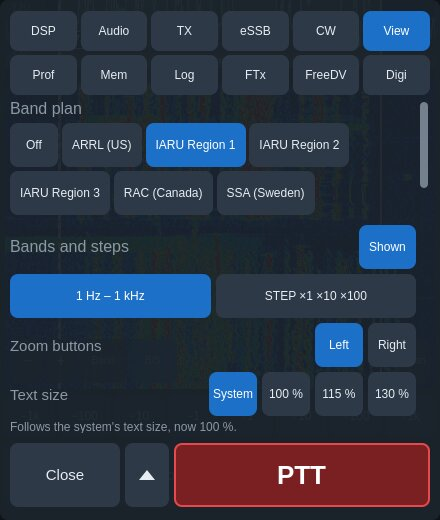
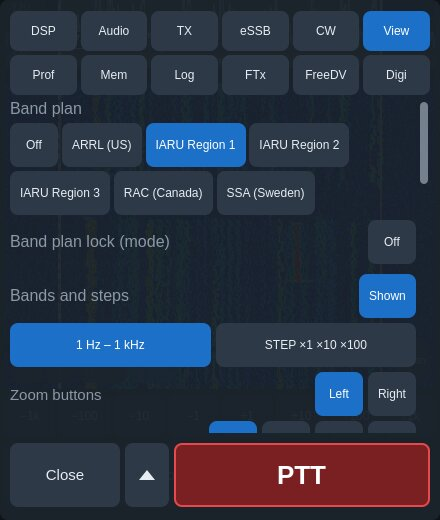
mobile: tuning with VoiceOver / TalkBack; build 156 / beta 69 notes, roadmap, pictures
The user, of the screen reader plan: "Tähän buildiin 1 ja 4": the
frequency becomes an adjustable control for VoiceOver / TalkBack (role
Slider, value the frequency in kHz, increase / decrease one step of the
STEP setting; a double tap still opens frequency entry), on the tablet
page and both phone headers; and the mode and transmit on / off are
announced (Accessible.announce, quiet for 3 s after connecting).

Qt's iOS bridge marks an element adjustable only with a value interface
(the Slider role) and sends a swipe as the increase / decrease action,
which the QML handler takes before Qt's own value stepping; VoiceOver
reads the value after it. Tested on the FLEX with --a11y-tune-test (new)
at 390x844 and 1180x820: role Slider, value 14074, increase twice and
decrease once each one 1 kHz step (14.074 -> 14.075 -> 14.076 -> 14.075),
mode changed and back with no QML warnings, the frequency put back. The
real gestures are to verify on a device.

Docs: the manual's screen reader paragraph; TestFlight notes (3980
characters) and Android beta 69 notes with the band plan lock, the CW
sidetone level and screen reader tuning; release.env android-beta-69;
the roadmap's build 156 entry; tab-cw and tab-view re-rendered on the
FLEX. Render sweep, 27 sizes: 0 QML warnings, 0 radio full; layout
against build 154's sweep differs only by build 155's big-screen type,
the mode's width unchanged with the lock off.

Notes: changed
Manual: changed
Roadmap: changed
Screenshots: changed
[…]

diff --git a/mobile/qml/PhoneOperatePage.qml b/mobile/qml/PhoneOperatePage.qml
@@ -148,9 +148,16 @@ Page {
                     color: Theme.text
                     font.pixelSize: 30
                     font.family: "monospace"
-                    Accessible.role: Accessible.Button
-                    Accessible.name: qsTr("Frequency %1 kHz").arg((Engine.frequencyMhz * 1000).toFixed(3))
-                    Accessible.description: qsTr("Opens frequency entry")
+                    // For VoiceOver / TalkBack an adjustable control: a swipe up or
+                    // down tunes one step and the new frequency (value, kHz) is read;
+                    // a double tap opens frequency entry.
+                    readonly property real value: Math.round(Engine.frequencyMhz * 1e6) / 1000
+                    Accessible.role: Accessible.Slider
+                    Accessible.name: qsTr("Frequency, kHz")
+                    Accessible.description: qsTr("Swipe up or down to tune by %1; double tap to type a frequency")
+                        .arg(Engine.stepHz >= 1000 ? qsTr("%1 kHz").arg(Engine.stepHz / 1000) : qsTr("%1 Hz").arg(Engine.stepHz))
+                    Accessible.onIncreaseAction: Engine.tuneBySteps(1)
+                    Accessible.onDecreaseAction: Engine.tuneBySteps(-1)
                     Accessible.onPressAction: freqDialog.open()
                     TapHandler { onTapped: freqDialog.open() }
                 }
@@ -240,9 +247,16 @@ Page {
                         color: Theme.text
                         font.pixelSize: 30
                         font.family: "monospace"
-                        Accessible.role: Accessible.Button
-                        Accessible.name: qsTr("Frequency %1 kHz").arg((Engine.frequencyMhz * 1000).toFixed(3))
-                        Accessible.description: qsTr("Opens frequency entry")
+                        // For VoiceOver / TalkBack an adjustable control: a swipe up or
+                        // down tunes one step and the new frequency (value, kHz) is read;
+                        // a double tap opens frequency entry.
+                        readonly property real value: Math.round(Engine.frequencyMhz * 1e6) / 1000
+                        Accessible.role: Accessible.Slider
+                        Accessible.name: qsTr("Frequency, kHz")
+                        Accessible.description: qsTr("Swipe up or down to tune by %1; double tap to type a frequency")
+                            .arg(Engine.stepHz >= 1000 ? qsTr("%1 kHz").arg(Engine.stepHz / 1000) : qsTr("%1 Hz").arg(Engine.stepHz))
+                        Accessible.onIncreaseAction: Engine.tuneBySteps(1)
+                        Accessible.onDecreaseAction: Engine.tuneBySteps(-1)
                         Accessible.onPressAction: freqDialog.open()
                         TapHandler { onTapped: freqDialog.open() }
                     }

diff --git a/mobile/qml/Main.qml b/mobile/qml/Main.qml
@@ -38,6 +38,37 @@ ApplicationWindow {
         target: Theme; property: "windowHeight"
         value: pages.height - pages.SafeArea.margins.top - pages.SafeArea.margins.bottom
     }
+
+    // VoiceOver / TalkBack: what changed is said without being asked: the
+    // mode (the band plan lock's too) and transmit on / off. Quiet for the
+    // first seconds of a connection, while the radio's state arrives.
+    Item {
+        id: announcer
+        property bool ready: false
+        function say(text) {
+            if (ready) {
+                Accessible.announce(text)
+            }
+        }
+        Timer { id: announceSettle; interval: 3000; onTriggered: announcer.ready = true }
+        Connections {
+            target: Engine
+            function onConnectionStateChanged() {
+                announcer.ready = false
+                if (Engine.connectionState === "connected") {
+                    announceSettle.restart()
+                }
+            }
+            function onModeChanged() {
+                if (Engine.mode.length > 0) {
+                    announcer.say(qsTr("Mode %1").arg(Engine.mode))
+                }
+            }
+            function onTransmittingChanged() {
+                announcer.say(Engine.transmitting ? qsTr("Transmitting") : qsTr("Receiving"))
+            }
+        }
+    }
     readonly property bool phoneSized: Theme.phoneLayout
     // The page's layout, settled: the two bindings above update one after
     // the other, so a phone turning passed through a square window that

diff --git a/mobile/qml/OperatePage.qml b/mobile/qml/OperatePage.qml
@@ -289,9 +289,16 @@ Page {
                     font.pixelSize: Math.round((page.compact ? 40 : 56) * page.infoScale)
                     font.family: "monospace"
                     // Tap for direct entry.
-                    Accessible.role: Accessible.Button
-                    Accessible.name: qsTr("Frequency %1 kHz").arg((Engine.frequencyMhz * 1000).toFixed(3))
-                    Accessible.description: qsTr("Opens frequency entry")
+                    // For VoiceOver / TalkBack an adjustable control: a swipe up or
+                    // down tunes one step and the new frequency (value, kHz) is read;
+                    // a double tap opens frequency entry.
+                    readonly property real value: Math.round(Engine.frequencyMhz * 1e6) / 1000
+                    Accessible.role: Accessible.Slider
+                    Accessible.name: qsTr("Frequency, kHz")
+                    Accessible.description: qsTr("Swipe up or down to tune by %1; double tap to type a frequency")
+                        .arg(Engine.stepHz >= 1000 ? qsTr("%1 kHz").arg(Engine.stepHz / 1000) : qsTr("%1 Hz").arg(Engine.stepHz))
+                    Accessible.onIncreaseAction: Engine.tuneBySteps(1)
+                    Accessible.onDecreaseAction: Engine.tuneBySteps(-1)
                     Accessible.onPressAction: freqDialog.open()
                     TapHandler { onTapped: freqDialog.open() }
                 }

diff --git a/mobile/src/main.cpp b/mobile/src/main.cpp
@@ -35,6 +35,7 @@
 #include <QKeyEvent>
 #include <QQuickWindow>
 #include <QQuickItem>
+#include <QAccessible>
 #include <QTimer>
 #include <QRawFont>
 #include <QGlyphRun>
@@ -409,6 +410,11 @@ int main(int argc, char* argv[])
         QStringLiteral("Development: change each radio setting a little, check the radio's status brings it "
                        "back, restore it, then quit (no keying; VOX, antennas, MTU, callsign left out)."));
     parser.addOption(echoAuditOption);
+    const QCommandLineOption a11yTuneOption(QStringLiteral("a11y-tune-test"),
+        QStringLiteral("Development: as VoiceOver / TalkBack would, swipe the frequency up twice and down once "
+                       "(its accessible increase / decrease), log its role, value and the frequency, change "
+                       "the mode and back (spoken notices), then put the frequency back and quit."));
+    parser.addOption(a11yTuneOption);
     const QCommandLineOption engineSetOption(QStringLiteral("engine-set"),
         QStringLiteral("Development: 12 s after start set engine properties <name>=<value>[,...] "
                        "(e.g. to put back what a test left), log them, then quit 3 s later."),
@@ -764,6 +770,69 @@ int main(int argc, char* argv[])
             QTimer::singleShot(11000, &engine, [&engine, slot] {
                 qInfo() << "dvk-record-test: slot after clear" << engine.dvkSlots().at(slot - 1);
             });
+        });
+    }
+    if (parser.isSet(a11yTuneOption)) {
+        auto findFrequency = [&qml]() -> QAccessibleInterface* {
+            if (qml.rootObjects().isEmpty()) {
+                return nullptr;
+            }
+            auto* window = qobject_cast<QQuickWindow*>(qml.rootObjects().constFirst());
+            QList<QQuickItem*> todo{window ? window->contentItem() : nullptr};
+            while (!todo.isEmpty()) {
+                QQuickItem* it = todo.takeFirst();
+                if (!it) {
+                    continue;
+                }
+                if (it->isVisible() && it->property("value").isValid()) {
+                    QAccessibleInterface* iface = QAccessible::queryAccessibleInterface(it);
+                    if (iface && iface->text(QAccessible::Name) == QLatin1String("Frequency, kHz")) {
+                        return iface;
+                    }
+                }
+                todo.append(it->childItems());
+            }
+            return nullptr;
+        };
+        auto saved = std::make_shared<std::pair<double, QString>>();
+        QTimer::singleShot(10000, &app, [&engine, saved, findFrequency] {
+            saved->first = engine.frequencyMhz();
+            saved->second = engine.mode();
+            QAccessibleInterface* iface = findFrequency();
+            if (!iface) {
+                qWarning() << "a11y-tune-test: no frequency control found";
+                return;
+            }
+            qInfo() << "a11y-tune-test: role" << iface->role() << "slider" << (iface->role() == QAccessible::Slider)
+                    << "value" << (iface->valueInterface() ? iface->valueInterface()->currentValue() : QVariant())
+                    << "actions" << (iface->actionInterface() ? iface->actionInterface()->actionNames() : QStringList())
+                    << "description" << iface->text(QAccessible::Description) << "step" << engine.stepHz();
+        });
+        const QStringList actions{QAccessibleActionInterface::increaseAction(),
+                                  QAccessibleActionInterface::increaseAction(),
+                                  QAccessibleActionInterface::decreaseAction()};
+        for (int i = 0; i < actions.size(); ++i) {
+            const QString action = actions.at(i);
+            QTimer::singleShot(11000 + i * 1500, &app, [&engine, action, findFrequency] {
+                if (QAccessibleInterface* iface = findFrequency(); iface && iface->actionInterface()) {
+                    const double before = engine.frequencyMhz();
+                    iface->actionInterface()->doAction(action);
+                    QTimer::singleShot(800, &engine, [&engine, action, before, findFrequency] {
+                        QAccessibleInterface* now = findFrequency();
+                        qInfo() << "a11y-tune-test:" << action << before << "->" << engine.frequencyMhz() << "value"
+                                << (now && now->valueInterface() ? now->valueInterface()->currentValue() : QVariant());
+                    });
+                }
+            });
+        }
+        QTimer::singleShot(16000, &app, [&engine] { engine.setMode(QStringLiteral("USB")); });
+        QTimer::singleShot(18000, &app, [&engine, saved] {
+            engine.setMode(saved->second);
+            engine.setFrequencyMhz(saved->first);
+        });
+        QTimer::singleShot(20000, &app, [&engine] {
+            qInfo() << "a11y-tune-test: restored" << engine.frequencyMhz() << engine.mode();
+            QCoreApplication::quit();
         });
     }
     if (parser.isSet(engineSetOption)) {

diff --git a/mobile/ROADMAP.md b/mobile/ROADMAP.md
@@ -5,6 +5,8 @@ queued, waiting on someone, or still to verify follows.
 
 ## Next build
 
+Build 156 / beta 69 (the user, 2026-11-05: Tyler Akerman K0OTC's two e-mails, "Laitetaan tylerin toiveet seuraavaan buildiin", then for the screen reader "Tähän buildiin 1 ja 4, PuJu"): **Band plan lock** (Tyler asked for the mode to follow the band plan with a switch; the user: the plan's modes as defaults that a chosen mode overrides, then, after Tyler answered that a switch the user turns off for contests is easiest, "a simple switch that always chooses", clear, easy to find and recognise, the modes limited by the plan and a notice when another is tried): in the mode chooser and View; PLAN by the mode (under it on a phone, the row's width kept; a tap turns it off). Tuning into another part of the plan below 30 MHz sets CW (CW part) or LSB under 10 MHz / USB above and on 60 m (phone or all-mode part), from any mode; a CW part allows CW, a phone part the voice modes (DIGU / DIGL with RADE on), an all-mode part any mode (FT8 on 7.074 in Region 1 stays DIGU), data / beacon / mixed parts any mode and set none; a refused choice or a spot's or memory's mode the part does not use gives a notice and the part's mode. Two earlier designs were built and tested on the FLEX first and dropped by the user: a hand-chosen mode remembered per part (a weekend's CW contest would leave the whole band CW), and a hold on the band. **CW sidetone level** (Tyler: the CW tones too loud with the volume up): Sidetone On and level on the CW tab (the radio's sidetone and mon_gain_cw, which the local sidetone plays at). **Screen reader tuning** (usability plan, Build C): the frequency is an adjustable control for VoiceOver / TalkBack (a swipe up or down tunes one step, the new frequency read; a double tap opens entry), and the mode and transmit on / off are announced. Tested on the FLEX: --mode-plan-test 26 steps on ARRL (US) and IARU Region 1; --echo-audit-only cwSidetone; --a11y-tune-test (new: the frequency's accessible role Slider, value in kHz, increase twice and decrease once each one step on 390x844 and 1180x820); rendered with the lock on at 390x844, 844x390, 320x693, 1180x820; state put back each time (the CW monitor level a test left at 85 put back to 80 with the new --engine-set). To verify: VoiceOver on an iPad / iPhone and TalkBack on a phone with the real gestures (only the accessible actions were driven here); the lock on a tester's ARRL plan.
+
 Build 155 / beta 68 (the user, 2026-11-05: the overnight watch's findings, then "Suunnattu FT8-CQ, B/S, Android: suurin näytön koko, tabletin ja Macin tekstikoko", and after the morning's phone tests the DX cluster backoff and the iOS device ID; "Kun olet saanut kaikki valmiiksi tee PuJu"): **iOS Display Zoom** (Evgeny R0ACS, iPhone 15 Pro, Larger Text: the app ran past the right edge): an iPhone 12-17 is 320 pt wide in Display Zoom, under the phone layout's least width (about 372); below 375 pt the app is laid out at 375 and drawn scaled (QT_SCALE_FACTOR before the app starts), rendered at 320x693 against the FLEX; Android needs none (the OnePlus Open's outer screen at its largest Display size fits, devlink pictures of both screens both ways). **Radio Setup at a large text size** (Ben Morris, Evgeny): an unwrapped label set a tab's least width, past the scroll bar; Level, TextSetting and Info labels wrap, every tab fits at 375 and 393 pt at 135 %; the description scrolls with the settings; the amplifier's description back on the Amp tab (index 7, it showed on XVTR). **B/S** (Michael Walker): hidden rows give it an amber frame and ▲. **A directed CQ** (Kurt DL5EAG): FTx settings › CQ to, All / DX / NA / EU / own (1-4 letters or 3 digits), the CQ button reads CQ DX; --ft8-test selftest: CQ DX / NA / POTA / 123 through our encoder and decoder in FT8 and FT4; a dry run against the radio (the user's nonstandard call sends it plain, as WSJT-X). **Bigger type on big screens** (the usability review): the scale grows faster above the 11" iPad (13" 1.14, external up to 1.3) and the panels' text follows (Theme.bigScale); the pinned panel widens where the window has room; sweep against the same code before: phones, foldables, 11" iPad unchanged, no layout decision changed. **All station slots taken** (the user's iPad with both slots held by the user's two phones: "multiFLEX is off", no question): the refusal says so and asks which station to disconnect, then connects again (tested to the question against the radio). **Two devices of one owner** (the user's two Android phones threw each other off every 10-30 s, evicting each other as a stale session of the same GUI client ID): the ID's machine binding was "localhost|linux|arm64" on every phone, so a phone set up from another's backup kept the ID; Android binds to ANDROID_ID, iOS to identifierForVendor (AppSettings::setDeviceBinding); the first start rotates the ID once. **DX cluster**: the backoff starts over only after a 2-minute session, and two logins closed at once say the call is probably logged in elsewhere (an SSID, e.g. OH6OKSA-2); tested against a stand-in that closes each login. **An idle PGXL 0 W** (Ben's log: 30 dBm at rest). Open: the Connect page's polish loop on the OnePlus's outer screen right after its Display size went to the largest (the UI stood still ~40 s, the connection with it); not reproduced since on the phone or the desktop. To verify: Display Zoom on an iPhone; the iOS device ID and the Android one on the user's two phones together; the big-screen type on a Mac (the iPad app drawn at 77 %).
 
 Build 154 / beta 67 (the user, 2026-11-04: "Tehdään 1-4", then "Teen nyt vaan kaikki tähän bildiin"): **1. The Antenna Genius and an SO2R TGXL's channel** (Ben Morris's SO2R TGXL on an AG SO2R; his build 153 log, a FLEX-8600 over SmartLink on a mobile network, held nothing of the devices, so first **the devices' own words into the log**: the radio's amplifier status per device once per change, each direct link's info and first status, the PGXL setup group with the code hidden, the AMP meters the radio lists, the first readings and each transmission's highest; then, after 4O3A's AG TCP/IP API and the TGXL description, on the engine's AntennaGeniusModel: Radio Setup › Amp's AG address / Control / remote code, the Amp tab's ports with band, RX / TX antenna and the antennas allowed on the band (port set rxant= / txant= where allowed, asked first, not while transmitting), the engine's band recall made switchable and off (the desktop asserts the last antenna on every band change and at connect), an SO2R TGXL's Channel A / B (activate ch=); genius-mock --ag and --tgxl-so2r; tested against the mock registered with the FLEX: a TX antenna, an RX-only one keeping TX, back, the channel; the mock sends port get's terminator as the engine's model reads it). **2. The 4O3A audit's open points** (PGXL writes from a fresh setup read and no single-key fan write, sequence 1-255, a stale amp handle refreshed; the mock PGXL's meters reach the radio's definitions but not their values: Ben's log will show the real ones). **3. The connection doctor** (Connect page › Check the connection: network, name, where the radio is, TCP 4992 answered / refused / silent with the Local Network hint, the radio's firmware, stations and multiFLEX; SmartLink sign-in, listing and slots; tested against the FLEX, a dead address, a host without the port, a bad name and SmartLink). **4. The text size from the system** (iOS content size category, Android fontScale, View › Text size; Theme.px() on the panels', dialogs' and setup pages' 339 sizes, the operating screen and buttons kept: at 115 % a phone's step and PTT rows no longer fit; the sweep at 100 % identical to build 153's, at 130 % the operating screen unchanged). To verify: Ben's AG and SO2R channel, the text size on an iPhone and an Android phone at their largest settings.
@@ -227,8 +229,9 @@ Finding things:
 Screen reader:
 - **VoiceOver and TalkBack:** names for every control *in build 139*
   (290 on the FLEX, none without; 18 before), a double tap acting, a
-  swipe stepping a slider. Still to come: tuning that works with the
-  screen reader (the frequency read out, a swipe up or down = one step).
+  swipe stepping a slider. Tuning with the screen reader (the
+  frequency an adjustable control, a swipe up or down = one step, read
+  out) *in build 156*.
   *To discuss:* with a tester who uses a screen reader.
 
 Small ones: done in build 138 ("In use by" on SmartLink cards, 4.5:1

diff --git a/mobile/android/RELEASE_NOTES.md b/mobile/android/RELEASE_NOTES.md
@@ -1,6 +1,11 @@
-**OksaSDR for Android — beta 68.** A FlexRadio client for Android phones and tablets, built on the [AetherSDR](https://github.com/aethersdr/AetherSDR) engine: the same app as on the iPhone and iPad (TestFlight), from the same code.
+**OksaSDR for Android — beta 69.** A FlexRadio client for Android phones and tablets, built on the [AetherSDR](https://github.com/aethersdr/AetherSDR) engine: the same app as on the iPhone and iPad (TestFlight), from the same code.
 
-### New in beta 68
+### New in beta 69
+- **Band plan lock** (thanks Tyler K0OTC, who asked for the mode to follow the band plan, and agreed a switch is best for contests): tap the mode by the frequency and turn **Band plan lock** on (also in **Controls › View**). Tuning into another part of the band plan below 30 MHz then sets its mode: **CW** in a CW part, **LSB** below 10 MHz and **USB** above (and on 60 m) in a phone or all-mode part, e.g. 14.250 USB, then 7.210 LSB; a digital mode tuned into a CW or phone part takes the part's mode. A CW part allows only CW, a phone part the voice modes (DIGU / DIGL with RADE on); other modes are dimmed in the mode chooser and refused with a notice, and a spot's or memory's mode the part does not use is replaced. An all-mode part (IARU's ALL) sets the sideband but allows any mode, so FT8 on 7.074 stays DIGU. **PLAN** by the mode (under it on a phone) shows the lock is on; a tap on PLAN turns it off, e.g. for a contest that uses the whole band. It uses the band plan chosen in Controls › View (pick *ARRL (US)*, *IARU Region 1* … there).
+- **CW sidetone level** (thanks Tyler K0OTC: the CW tones were very loud with the volume up for weak stations): the CW tab has **Sidetone**, *On* and its own level, under Pitch; the radio's sidetone and the one on this device follow it, apart from the receive volume.
+- **TalkBack tuning**: the frequency is an adjustable control: the volume keys (or TalkBack's adjust gesture) on it tune one step (the STEP setting) and the new frequency is read; a double tap opens frequency entry. The mode changing and transmit starting and ending are spoken.
+
+### Still new from beta 68
 - **Two phones of yours no longer throw each other off the radio** (the developer's own two Android phones, one set up from the other's backup): both had the same GUI client ID, so the radio took them for one station and each connect ended the other's session every few seconds. Android now gives each device its own (from the system's device ID, which a backup does not carry); the first start after the update rotates it once, and the radio meets the phone as a new station.
 - **All station slots taken: the app asks** (the developer's iPad, with both slots of a two-station radio taken): the radio refused it and the app said multiFLEX was off (it was on) and asked nothing. Now the refusal says the slots are in use and asks which station to disconnect: **Disconnect it and connect**, or **Cancel**. Several devices of yours tell apart by their names: **Radio Setup › Radio › This station's name**.
 - **FTx: a directed CQ** (thanks Kurt DL5EAG): **FTx settings › CQ to**: *All* (a plain CQ), *DX*, *NA*, *EU* or your own (**+**: 1-4 letters or 3 digits, what FT8 / FT4 carry after CQ; a press and hold removes one). CQ sends *CQ DX K1ABC FN42* and reads **CQ DX**; Keep CQ calls the same. A nonstandard callsign's CQ has no room for it and goes out plain, as in WSJT-X; the row says so.

diff --git a/docs/mobile/MANUAL.md b/docs/mobile/MANUAL.md
@@ -565,8 +565,13 @@ vibration settings). iPads and Macs have none.
 kHz, the mode, the step, the antennas, filter width, AGC, volume, the
 lock, the meters with their reading, each slice, PTT, the sliders and
 fields. A double tap acts as a tap (hold PTT with a double tap and hold);
-a swipe up or down on a slider moves it one step, sent at once. Tuning
-from the display with the screen reader is still to come.
+a swipe up or down on a slider moves it one step, sent at once.
+**Tuning:** the frequency is an adjustable control: a swipe up or down on
+it (TalkBack: the volume keys, or its adjust gesture) tunes one step (the
+STEP setting, e.g. 1 kHz) and the new frequency in kHz is read; a double
+tap opens frequency entry. The screen reader also says, unasked, when
+the mode changes (the band plan lock's changes too) and when transmit
+starts and ends (*Transmitting*, *Receiving*).
 
 ### Network quality
 
